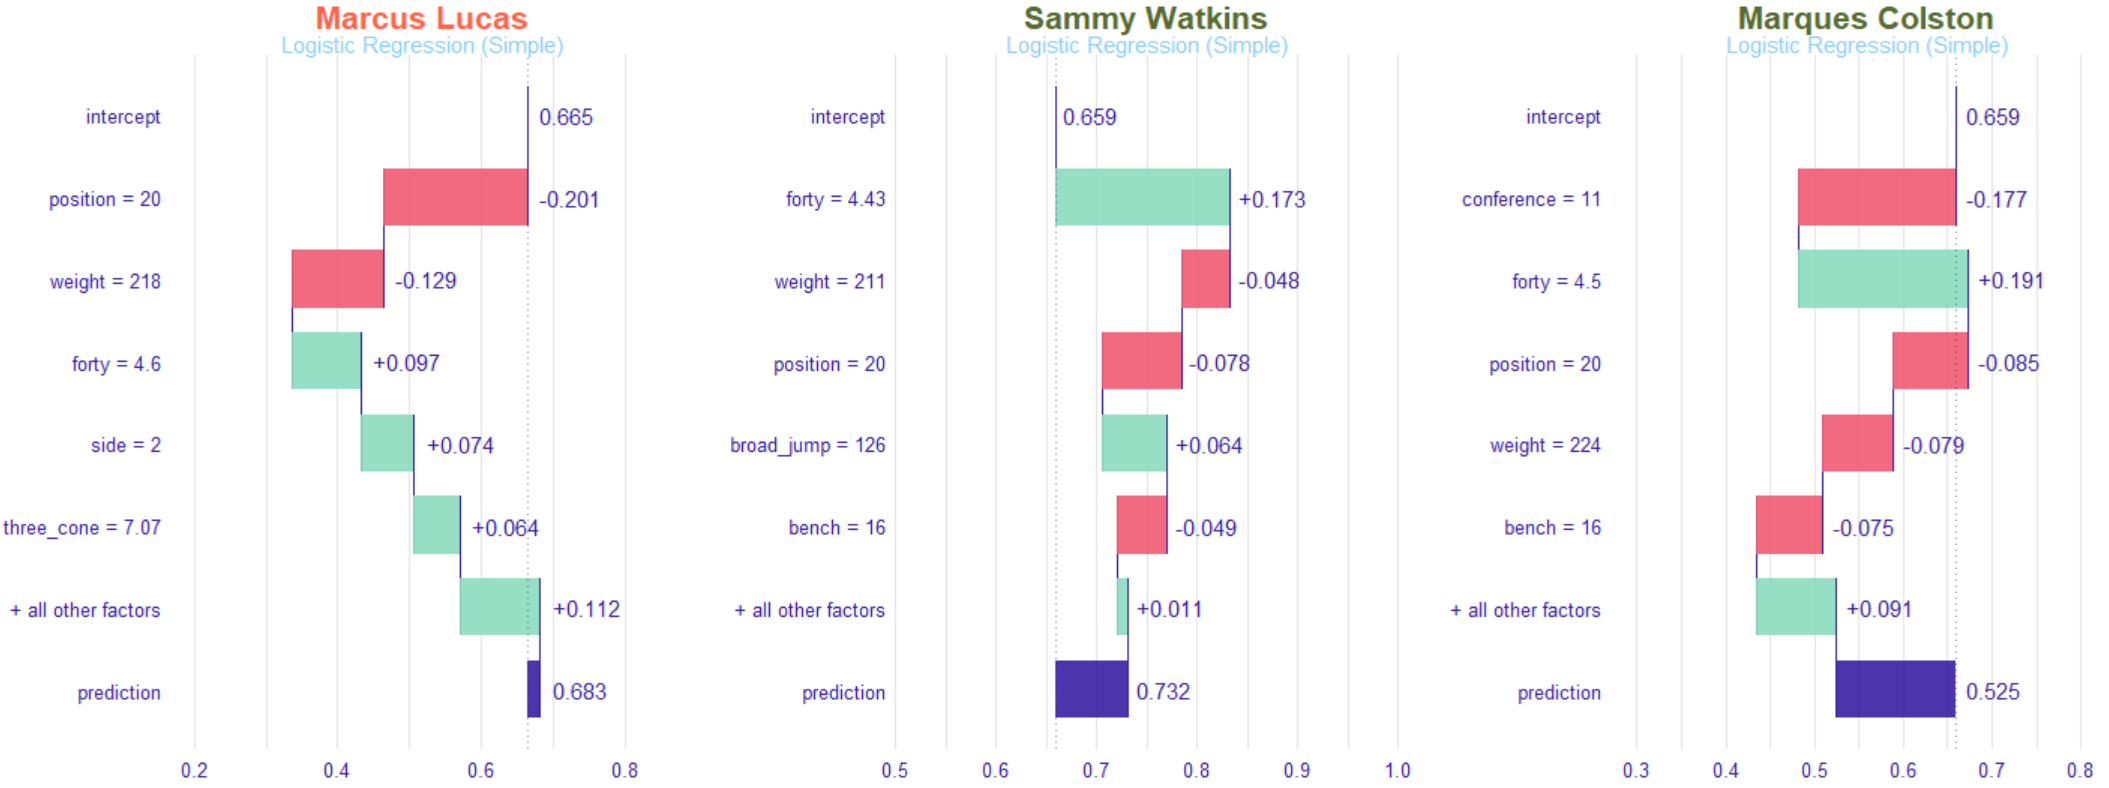
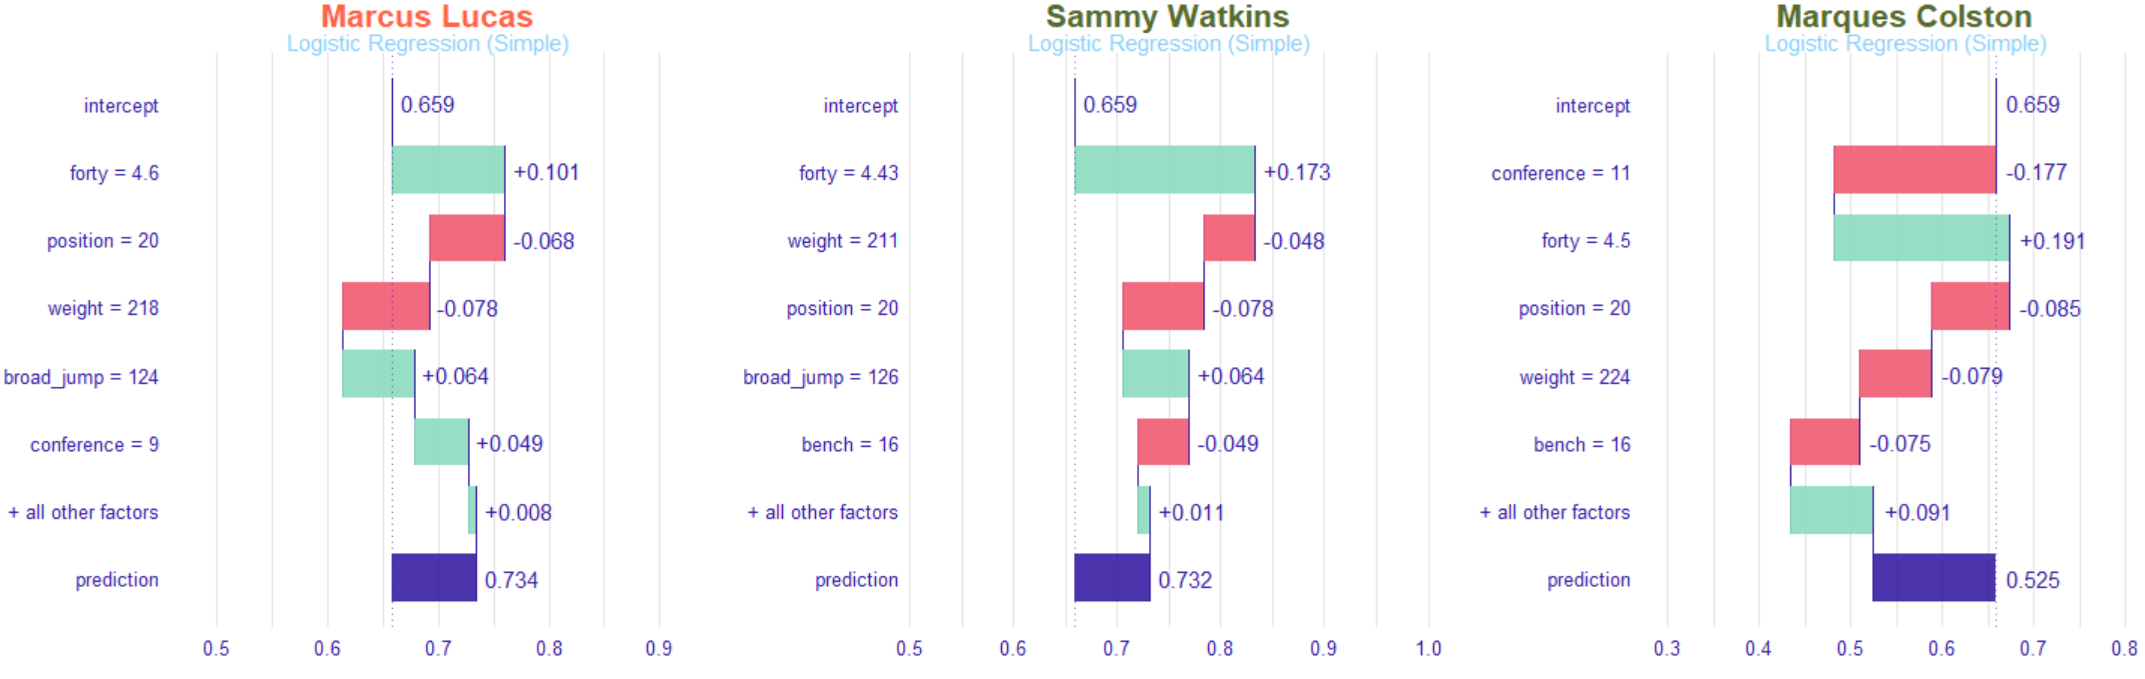
README

diff --git a/README.md b/README.md
@@ -643,7 +643,7 @@ RF-PCA | 0.676 | 0.684 | 0.944 | 0.191 | 0.689 | 0.944 | 0.796
 **Samples**
 <img src="Images/PA/data_Full.PNG" width="  1000">
 
-
+> **Baseline Prediction**: Random Forrest = **65.1%** | Logistic Regression (Full) = **66.5%** | Logistic Regression (Simple) = **66.9%**
 
 ### Wide Receivers
 
@@ -652,7 +652,42 @@ RF-PCA | 0.676 | 0.684 | 0.944 | 0.191 | 0.689 | 0.944 | 0.796
 <img src="Images/PA/bd_log_Full_WR.PNG" width="  900">
 <img src="Images/PA/bd_log_Simple_WR.PNG" width="  900">
 
-> **Note (WR)**
+> **MARUC LUCAS**
+> - **_Random Forrest:_** (average prediction **65.1%**)
+>   + _Weight and Position_ had the most influential contribution to the prediction with **_-12.4%_**.
+>   + _three_cone, vertical and forty_ added **4.4%**
+> - **_Logistic Regression (Full):_** (average prediction **66.5%**)
+>   + _Position & Weight_  had the most influential contribution to the prediction with **_-33%_**.
+>   +  _Forty, side, and three cone_ added **_23.5%_**
+> - **_Logistic Regression (Simple):_** (average prediction **65.9%**)
+>   + _Forty_ had the most influential contribution to the prediction with **_10.1%_**.
+>   + _Position & Weight_ substracted **_-14.6%_**.
+>   + _broad jump & conference_ added **_11.3%_**
+
+> **SAMMY WATKINS**
+> - **_Random Forrest:_** (average prediction **65.1%**)
+>   + _Weight = 211 & Position = "WR"_ had the most influential contribution to the prediction with **_-12%_**
+>   + _[ Forty = 4.43, Bench = 16, three_cone = 6.96 ]_ added **_1.9%_** to the prediction
+> - **_Logistic Regression (Full):_** (average prediction **66.5%**)
+>   + -[ Weight = 211 & Position = "WR" ]_ had the most influential contribution to the prediction with **_-35.9%_**
+>   + _[ Forty = 4.43, three_cone = 6.96, side = "Offense" ]_ added **_40%_** to the prediction
+> - **_Logistic Regression (Simple):_** (average prediction **65.9%**)
+>   + _Forty = 4.43_ had the most influential contribution with **_17.3%_**
+>   + _[ Weight = 211 & Position = "WR" ]_ substracted **_-12.6%_** to the prediction
+>   + _[ broad_jump = 126 & Bench = 16 ]_ added **_1.5%_** to the prediction
+
+> **MARQUES COLSTON**
+> - **_Random Forrest:_** (average prediction **65.1%**)
+>   + _Conference = "Division I -AA"_ was the most influential to the contribution with **_-9.4%_**
+>   + _[ Weight = 224 & Position = "WR" ]_ added **_8.9%_** to the prediction
+>   + _[ Bench = 16 & Forty = 4.5 ]_  added just under **_1%_** to the prediction
+> - **_Logistic Regression (Full):_** (average prediction **66.5%**)
+>   + _[ Position = "WR" & Conference = "Division I -AA" ]_ had the most influence towards the prediction with **_38.4%_**
+>   + _[ Forty = 4.5, Weight = 224, Three_cone = 6.94 ]_ added **_15.8%_** to the prediction
+> - **_Logistic Regression (Simple):_** (average prediction **65.9%**)
+>   + _Conference = "Division I - AA"_ was the single most influential feature towards the prediction with **_-17.7%_**
+>   + _Forty = 4.5_ added **_19.1%_** towards the prediction
+>   + _[ Position = "WR", Weight = 224, Bench = 16 ]_ added **_-23.9%_** to the prediction.
 
 ### Running Backs
 
